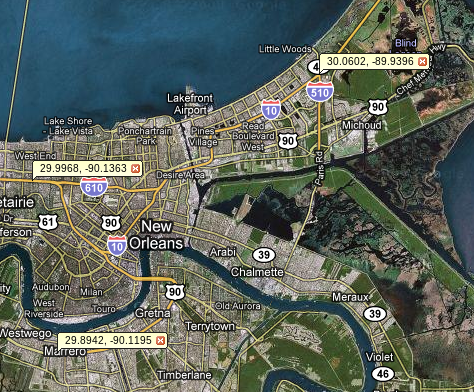
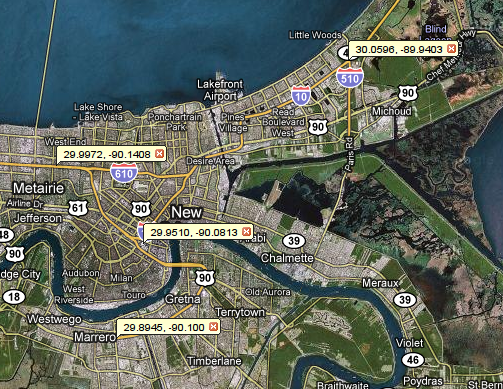
Corrección sección de refugios

diff --git a/capitulo6/cap6.tex b/capitulo6/cap6.tex
@@ -115,22 +115,25 @@ estará posicionado en la simulación un agente {\bf Entrada de Agua}.
  \caption{Detalle de las roturas de los diques 2}
 \end{figure}
 
-\subsection*{Rutas de Evacuación y Refugios}
+\subsection*{Refugios y Rutas de Evacuación}
 
-En un principio se utilizó el 
+En un principio se utilizó el {\em Louisiana Superdome} -una gran instalación
+deportiva y de exhibición ubicada en el distrito central de negocios de Nueva
+Orleans- como refugio, pero pasados unos días fue evacuado también. Dicha
+instalación en encuentra en las coordenadas geográficas 29.950931°, -90.081364°.
 
-Refugios oficiales no hubo en la inundación, lo que se hizo fue una evacuación
-completa de la ciudad, para ello, hemos marcado como objetivo tres posibles
-rutas de escape para los ciudadanos.
+Aparte del {\em Superdome}, no hubo otros refugios notables, si no que lo que se
+hizo fue una evacuación completa de la ciudad. Por ello, hemos marcado como
+objetivos tres posibles rutas de escape para los ciudadanos.
 
 También consideramos que los edificios de los cuales podemos obtener
 información a través de OSM pudieron ser refugios de emergencia donde
-temporalmente pudieron refugiarse algunos ciudadanos.
+temporalmente pudieron refugiarse algunos ciudadanos. % TODO quitar?
 
 \begin{figure}[H]
  \centering
- \includegraphics[width=100mm]{figuras/cap6/evacuation.png}
- \caption{Rutas de evacuación}
+ \includegraphics[width=105mm]{figuras/cap6/evacuation.png}
+ \caption{Posibles rutas de evacuación y posición del Superdome}
 \end{figure}
 
 \section*{Resultados}
